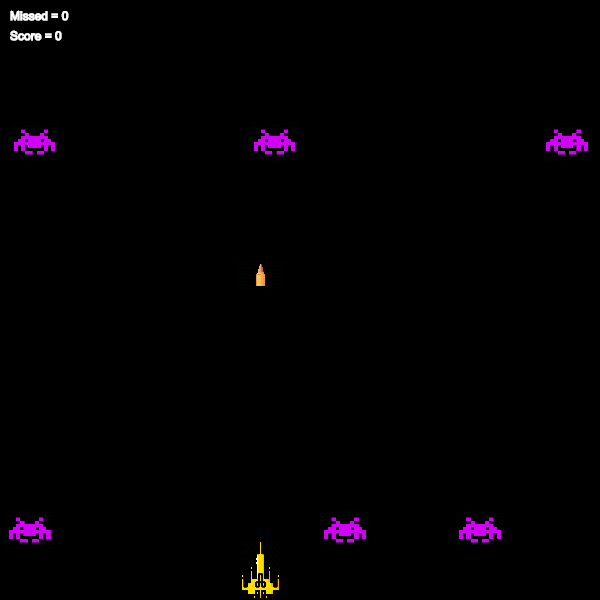
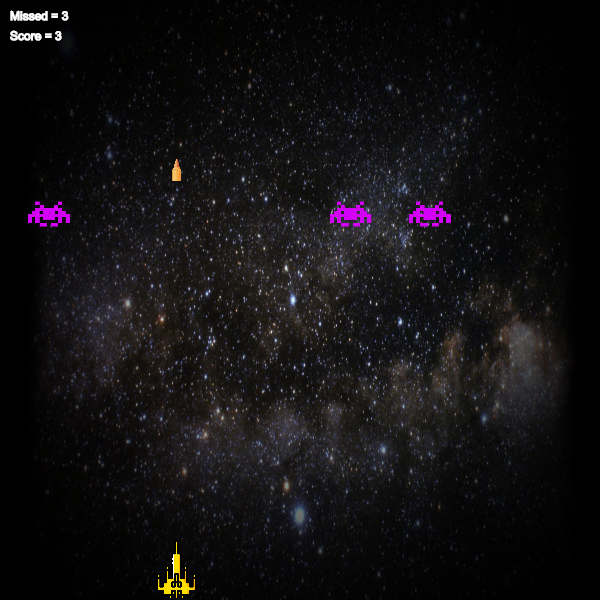
background added and output updated

diff --git a/public/sketch.js b/public/sketch.js
@@ -7,18 +7,20 @@ var productionRate=3;//ranges from 1 to 10 for the current canvas width
 var invaderImage;
 var gunImage;
 var bulletImage;
+var backgroundImage;
 function preload(){
     shootSound=loadSound("./gunsound.mp3");
     invaderImage=loadImage("./invaderimage.png");
     gunImage=loadImage("./gun.png");
     bulletImage=loadImage("./bullet.png");
+    backgroundImage=loadImage("./background.jpg");
 }
 function setup(){
     createCanvas(600,600);
     player=new Player();
 }
 function draw(){
-    background(0);
+    background(backgroundImage);
     if(frameCount%invaderRate==0){
         for(var i=0;i<productionRate;i++){
             var invader=new Invader(random((i)*(width/productionRate),(i+1)*(width/productionRate)-50,0));
